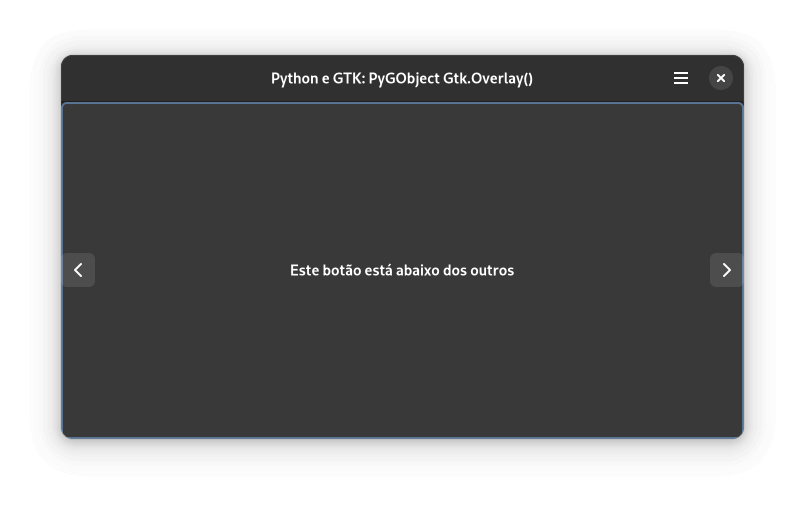
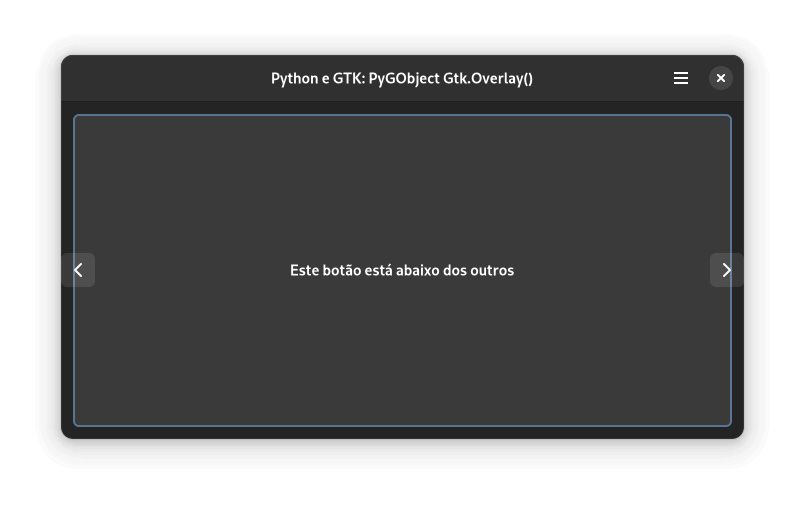
Revisando Gtk.Overlay.

Changed region(s): [[0.0621, 0.1779, 0.9317, 0.8893]]

diff --git a/src/gtk-widgets/overlay/MainWindow.py b/src/gtk-widgets/overlay/MainWindow.py
@@ -32,12 +32,20 @@ class ExampleWindow(Gtk.ApplicationWindow):
         header_bar.pack_end(child=menu_button)
 
         overlay = Gtk.Overlay.new()
-        self.set_child(child=overlay)
+        self.set_child(child=overlay) 
 
+        vbox = Gtk.Box.new(orientation=Gtk.Orientation.VERTICAL, spacing=12)
+        vbox.set_homogeneous(homogeneous=True)
+        vbox.set_margin_top(margin=12)
+        vbox.set_margin_end(margin=12)
+        vbox.set_margin_bottom(margin=12)
+        vbox.set_margin_start(margin=12)
+        overlay.set_child(child=vbox)
+        
         button = Gtk.Button.new_with_label(
             label='Este botão está abaixo dos outros',
         )
-        overlay.add_overlay(widget=button)
+        vbox.append(child=button)
 
         button_go_previous = Gtk.Button.new_from_icon_name(
             icon_name='go-previous',
